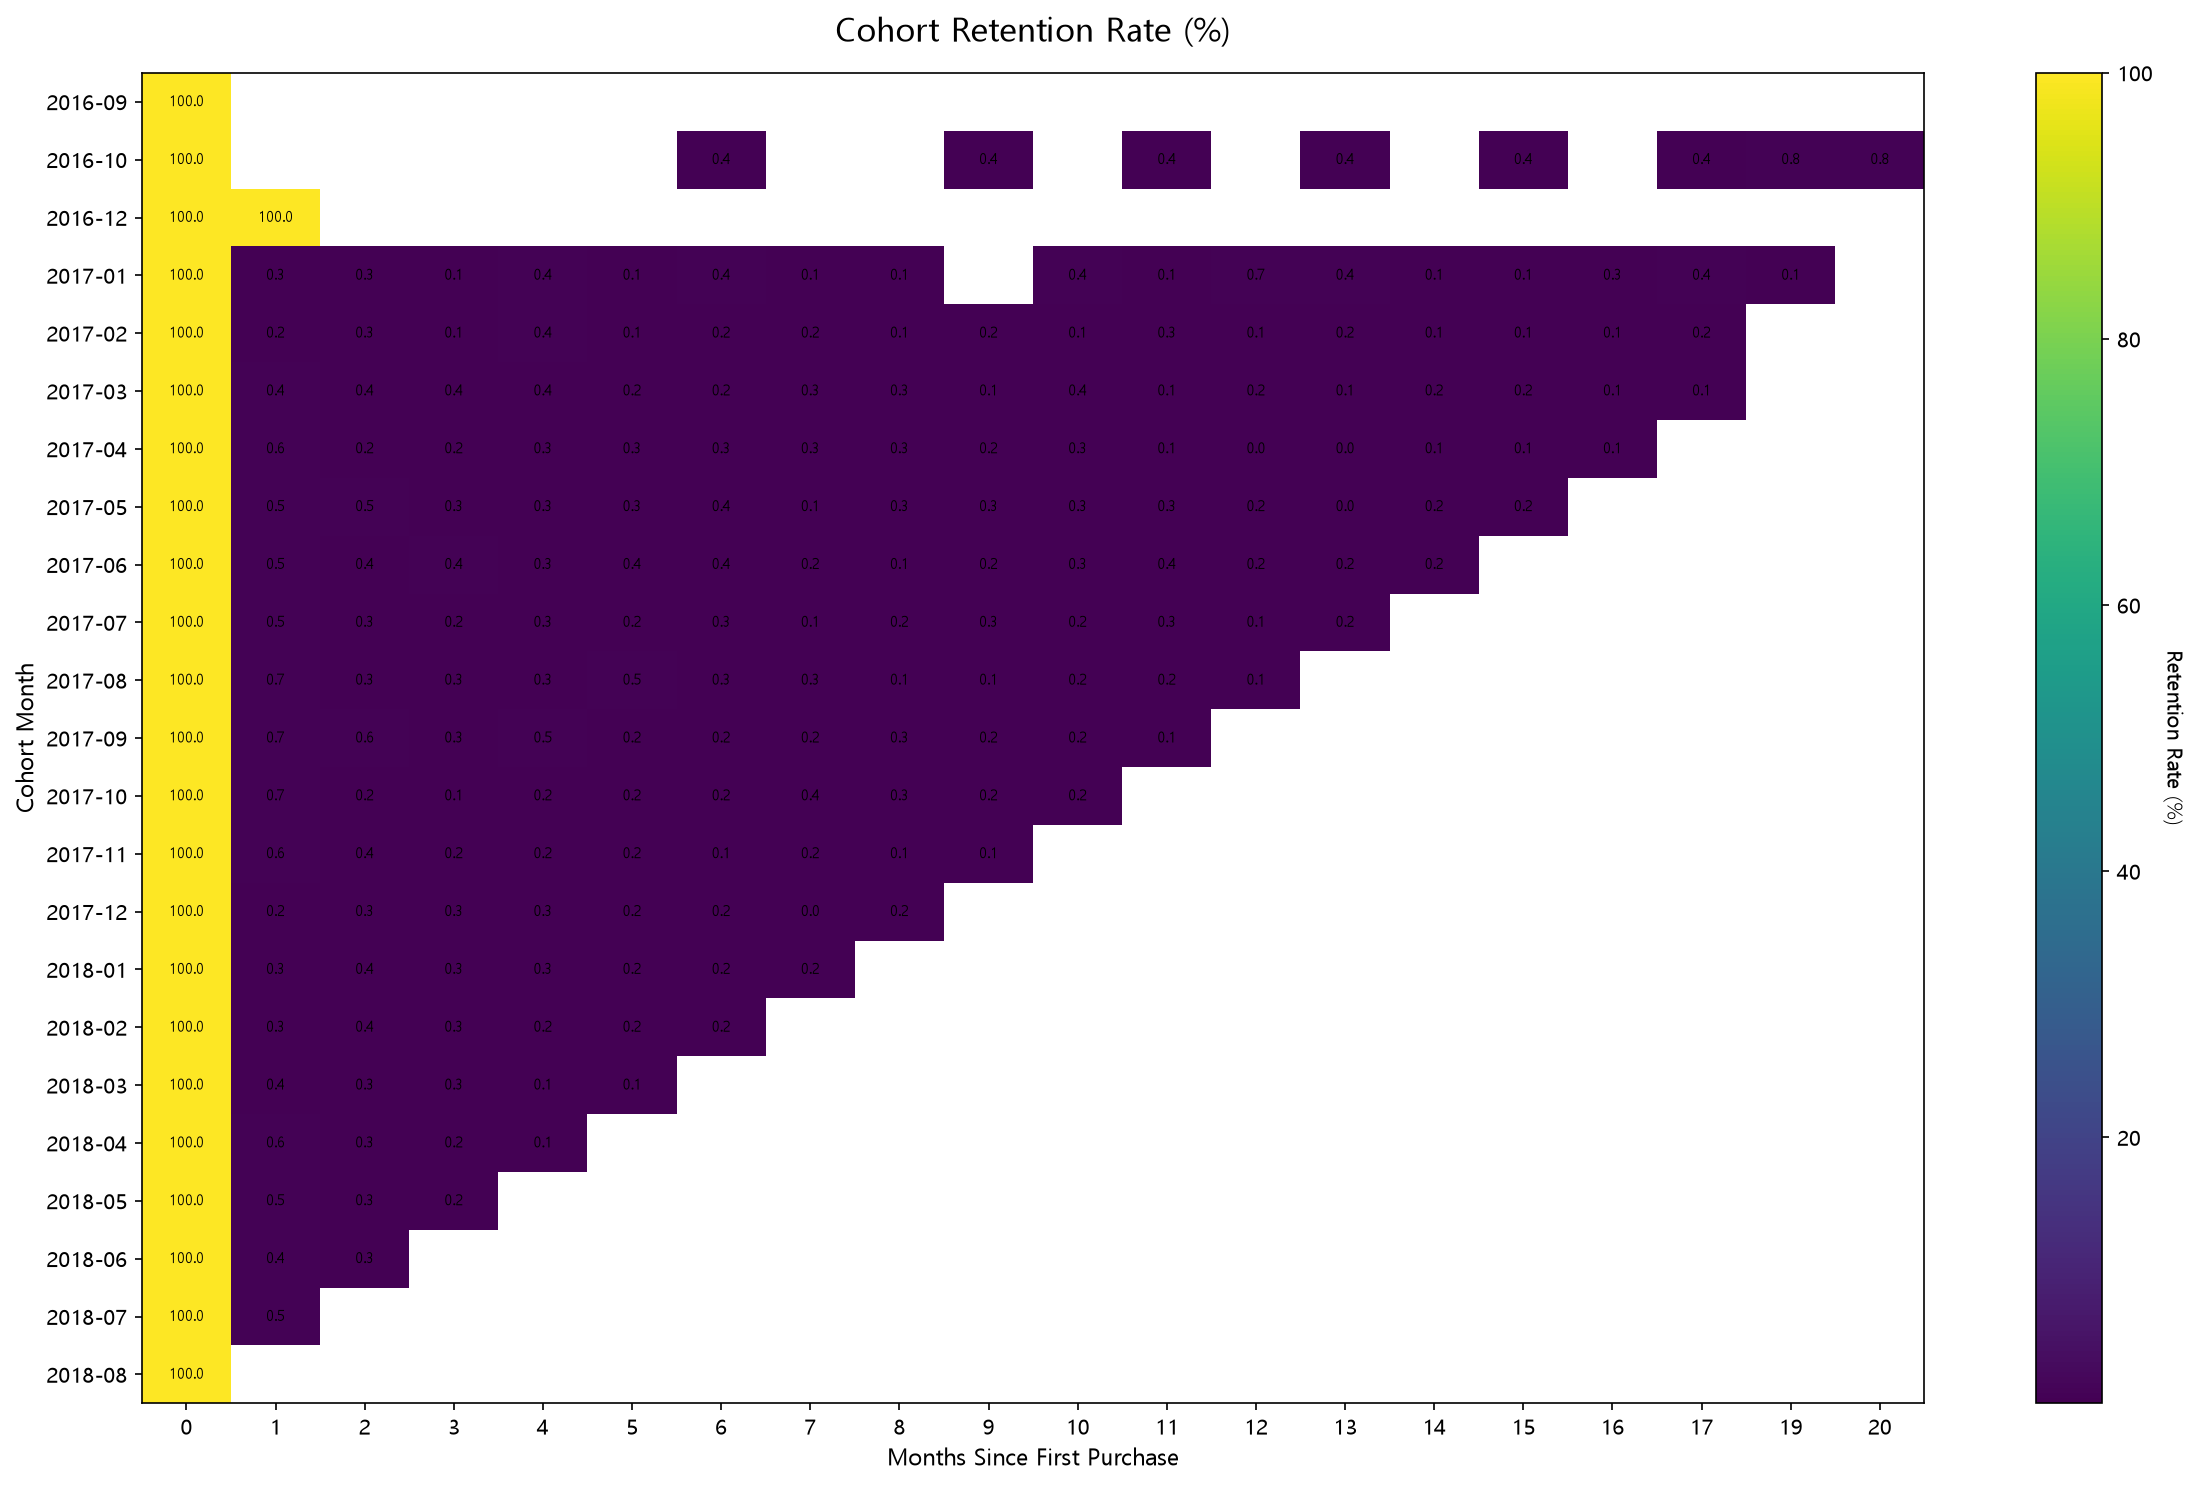
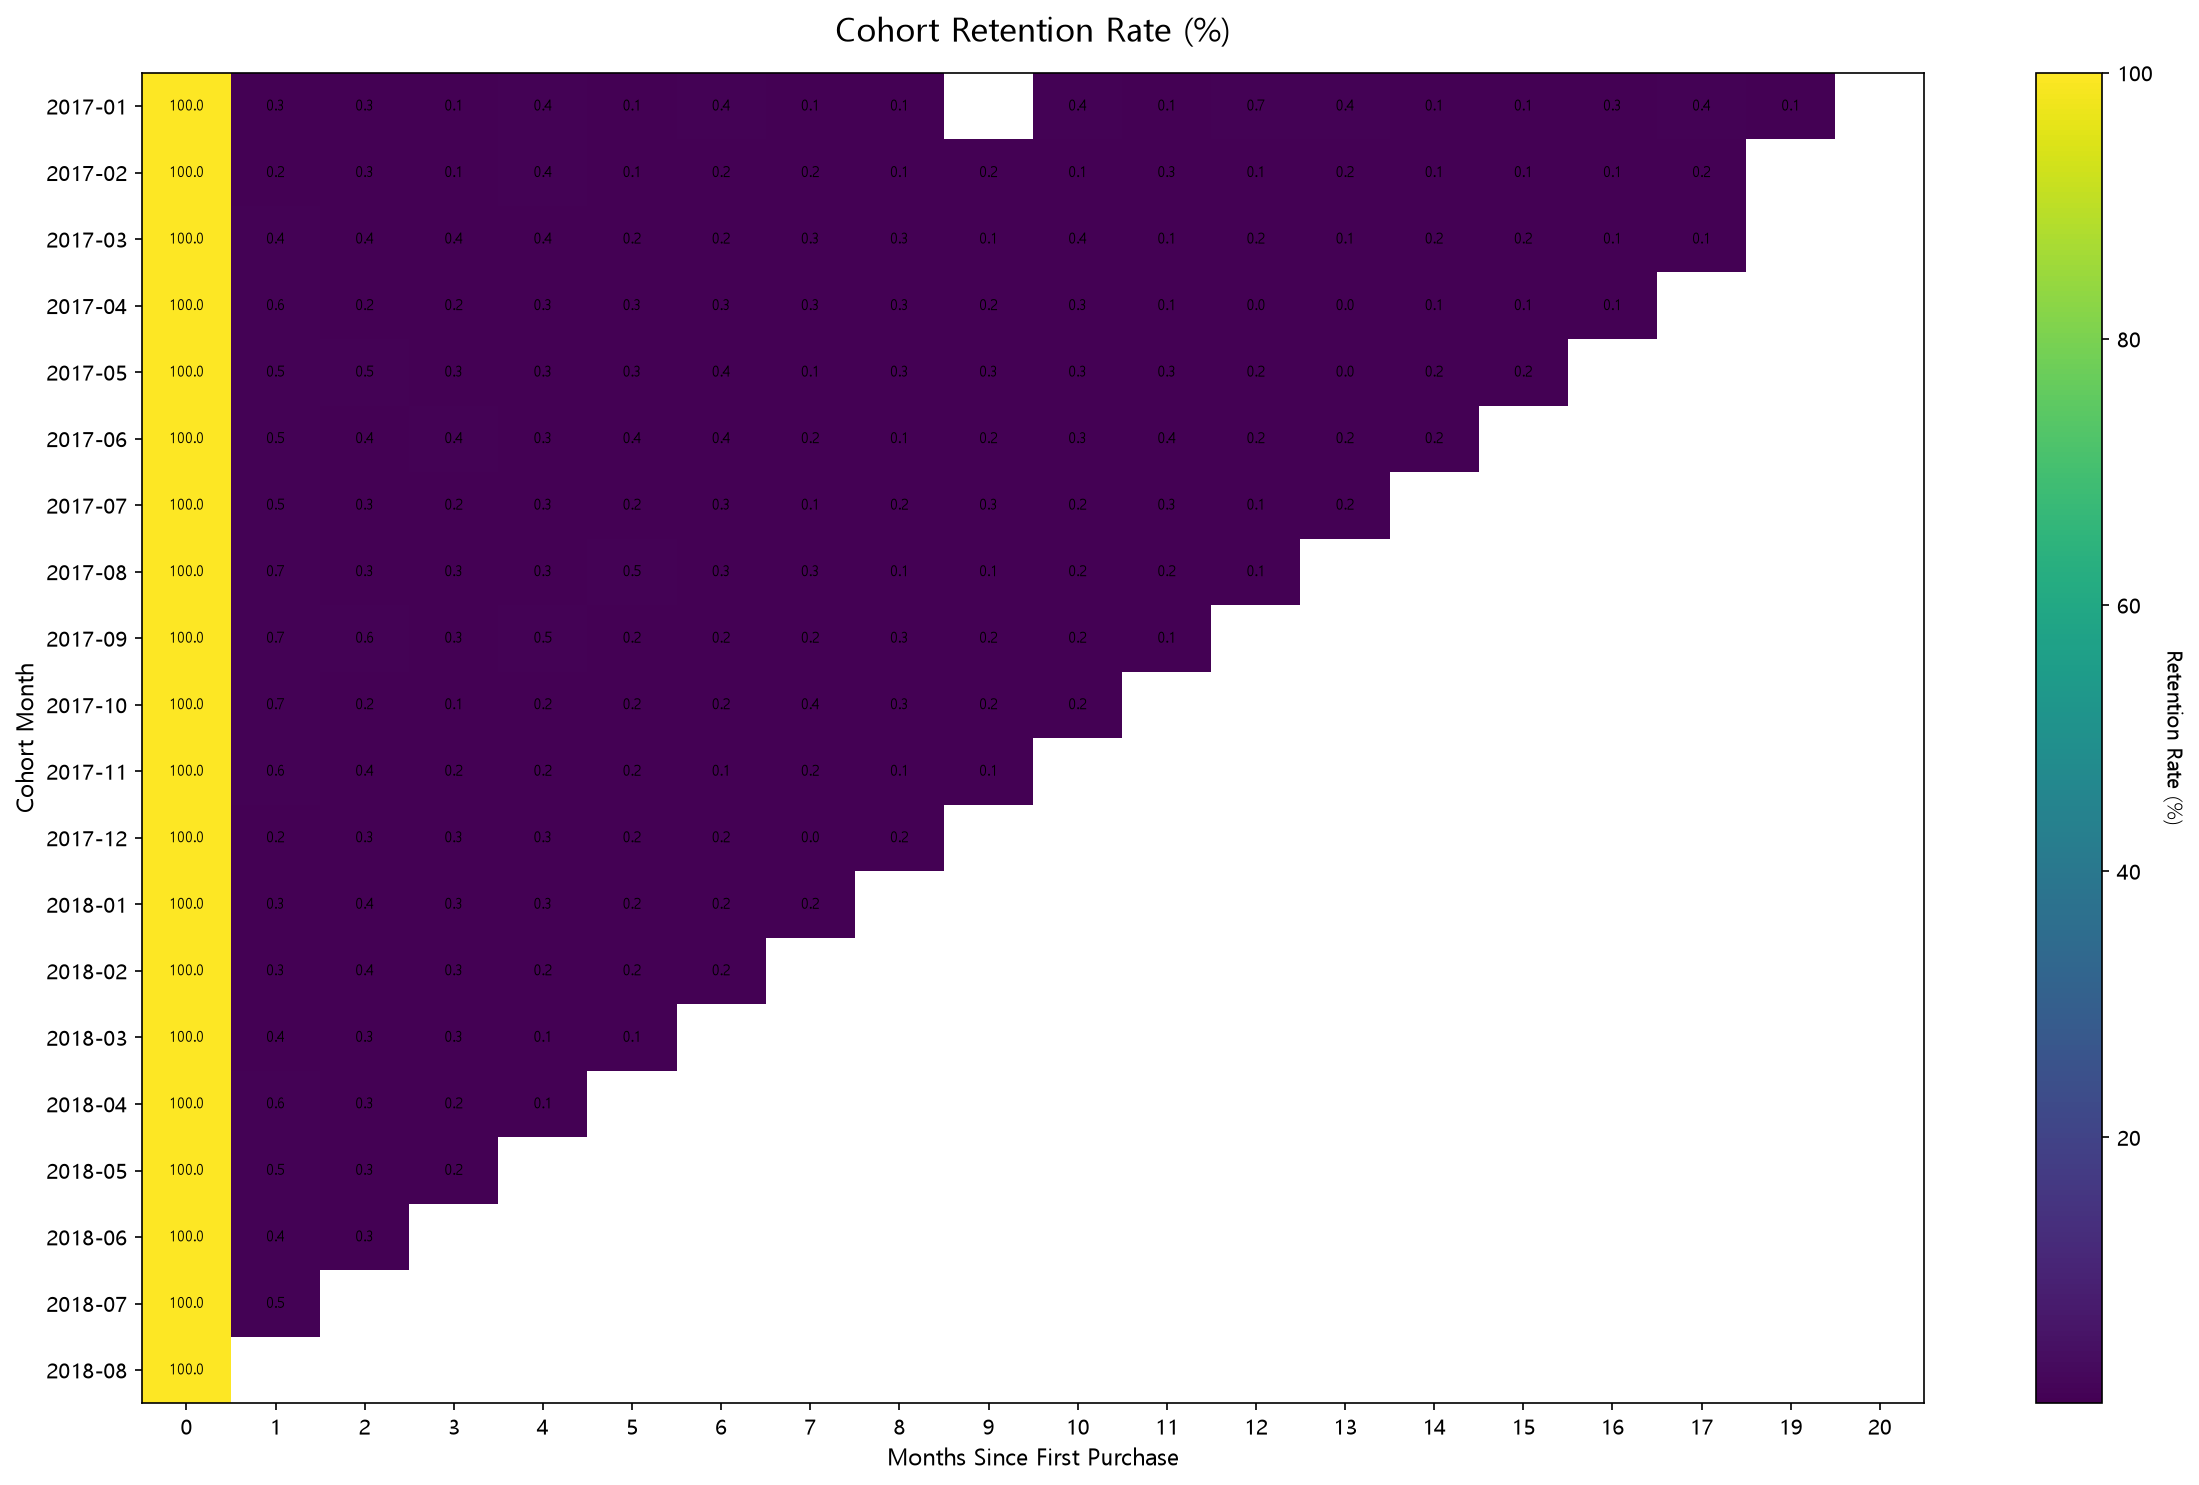
fix: 표본이 적은 2016년 코호트를 히트맵에서 제외

diff --git a/python/10_cohort_visualization.py b/python/10_cohort_visualization.py
@@ -42,7 +42,34 @@ print("=" * 60)
 print("Cohort Retention 시각화 시작")
 print("=" * 60)
 
-print(f"Cohort 수: {len(retention):,}")
+print(f"전체 Cohort 수: {len(retention):,}")
+
+
+# ============================================================
+# 2-1. 표본이 적은 초기 Cohort 제외
+# ============================================================
+#
+# 2016-09, 2016-10, 2016-12 Cohort는 서비스 초기 데이터로
+# 고객 수가 1~262명 수준이다.
+#
+# 특히 2016-09, 2016-12 Cohort는 고객이 1명뿐이어서
+# 그 고객이 다시 구매하면 유지율이 100%로 표시되고,
+# 히트맵 전체의 색상 범위를 왜곡한다.
+#
+# 따라서 2017-01 이후 Cohort만 시각화한다.
+# (분석 데이터 cohort_retention.csv 자체는 수정하지 않는다.)
+#
+
+MIN_COHORT_MONTH = "2017-01"
+
+excluded = retention.index[retention.index < MIN_COHORT_MONTH]
+
+retention = retention.loc[
+    retention.index >= MIN_COHORT_MONTH
+]
+
+print(f"제외한 Cohort: {', '.join(excluded)}")
+print(f"시각화 Cohort 수: {len(retention):,}")
 print(f"최대 관찰 개월: {retention.shape[1] - 1}")
 
 
